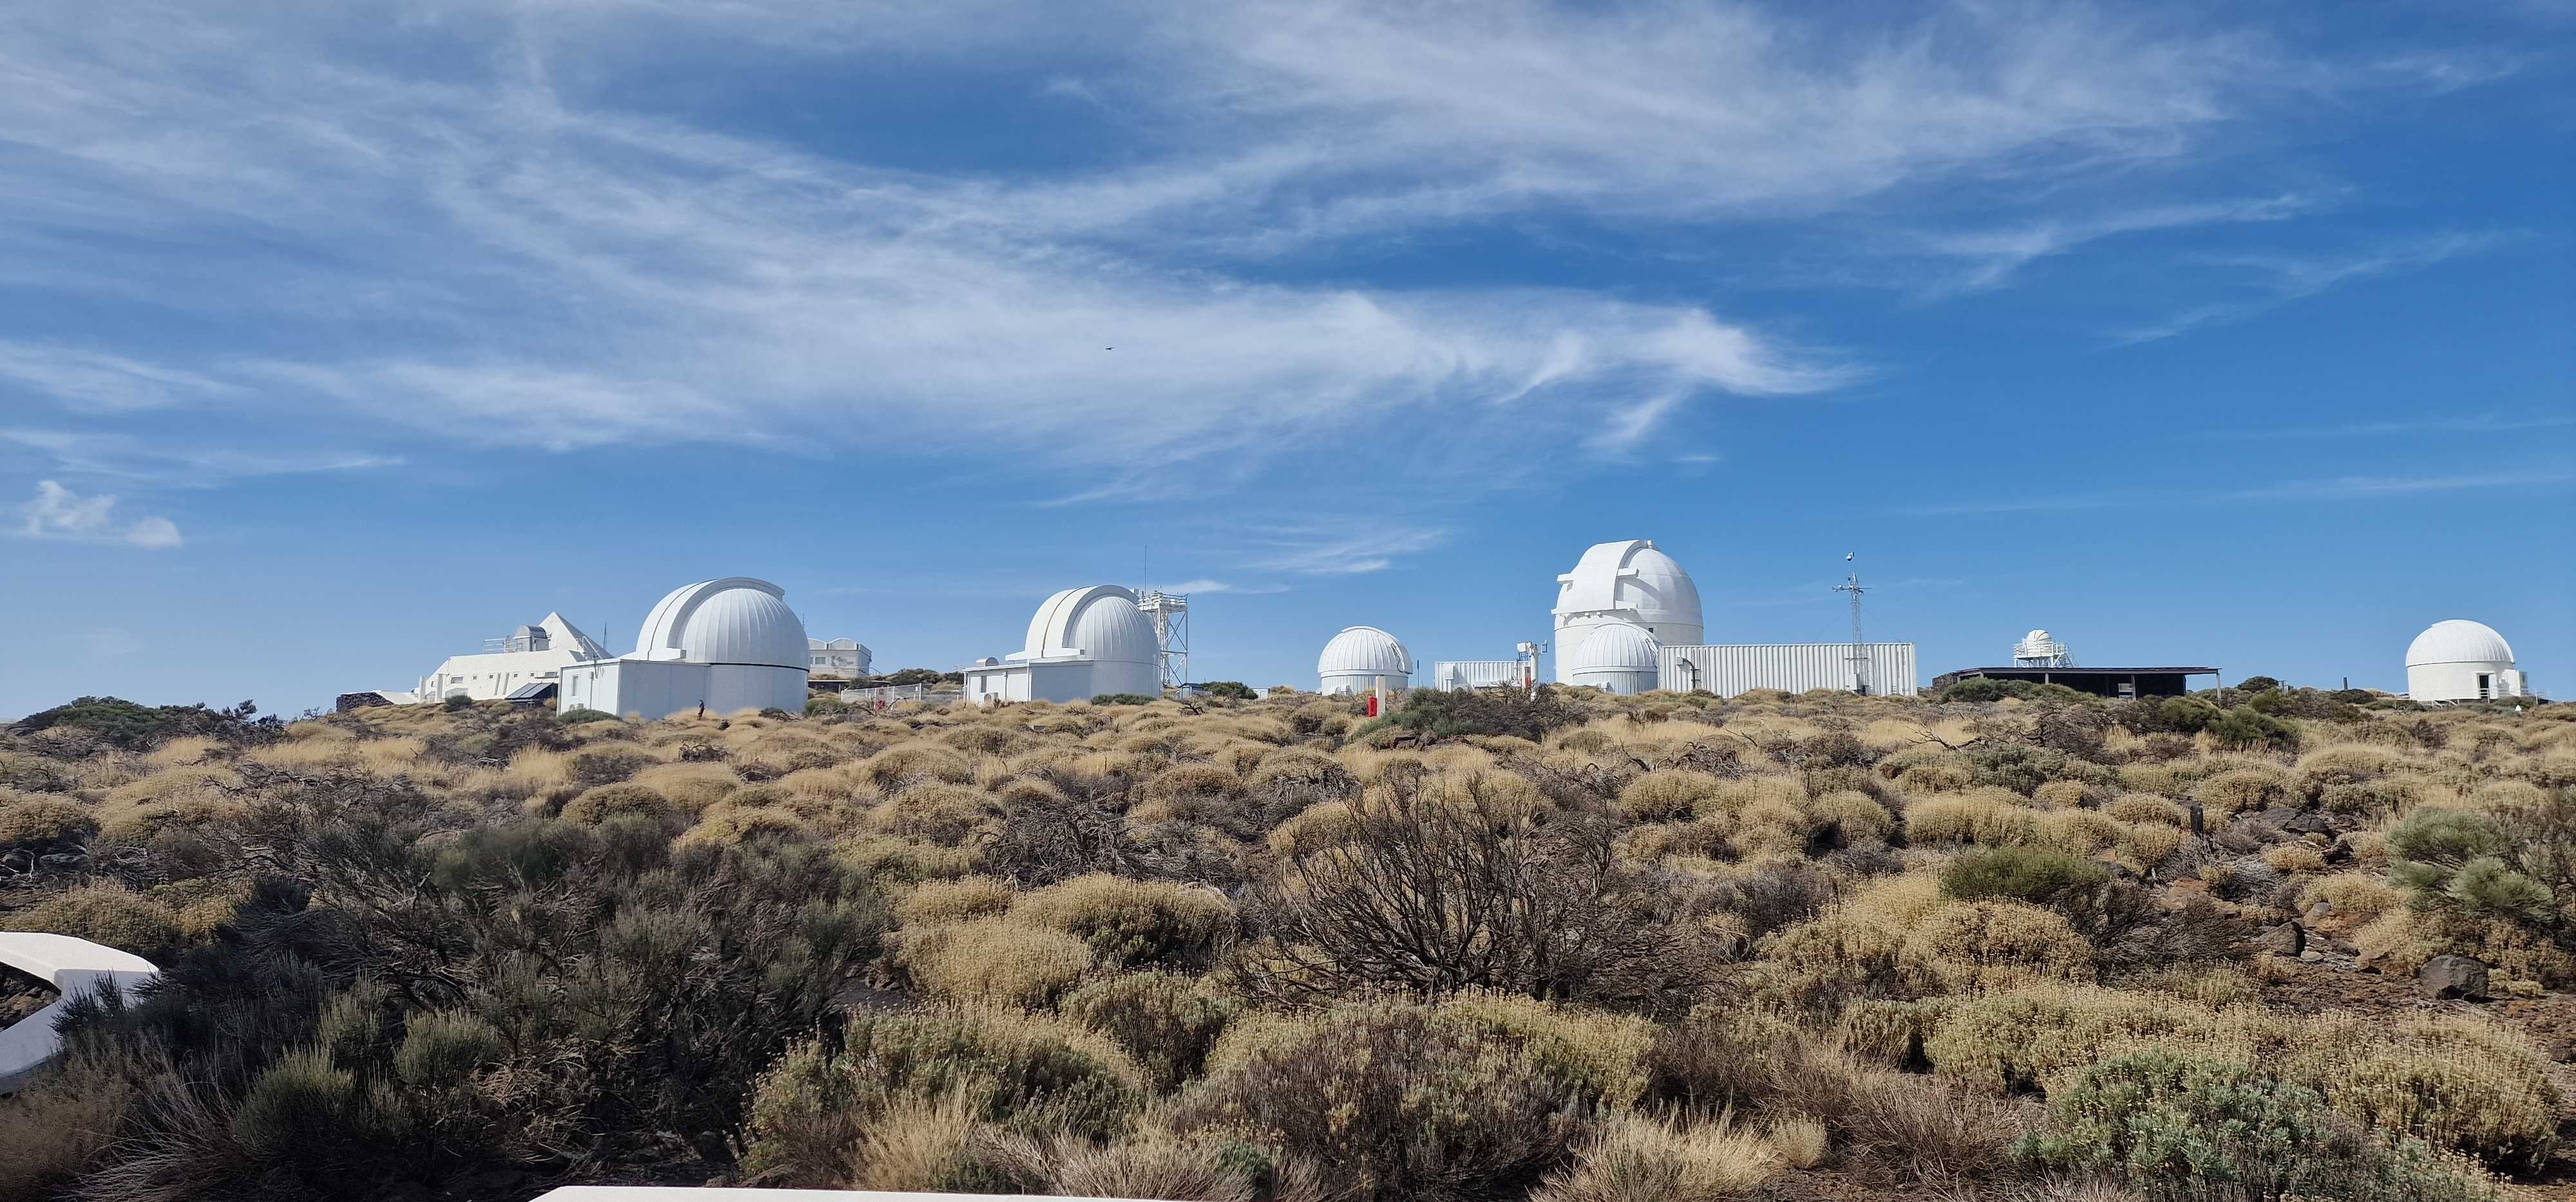
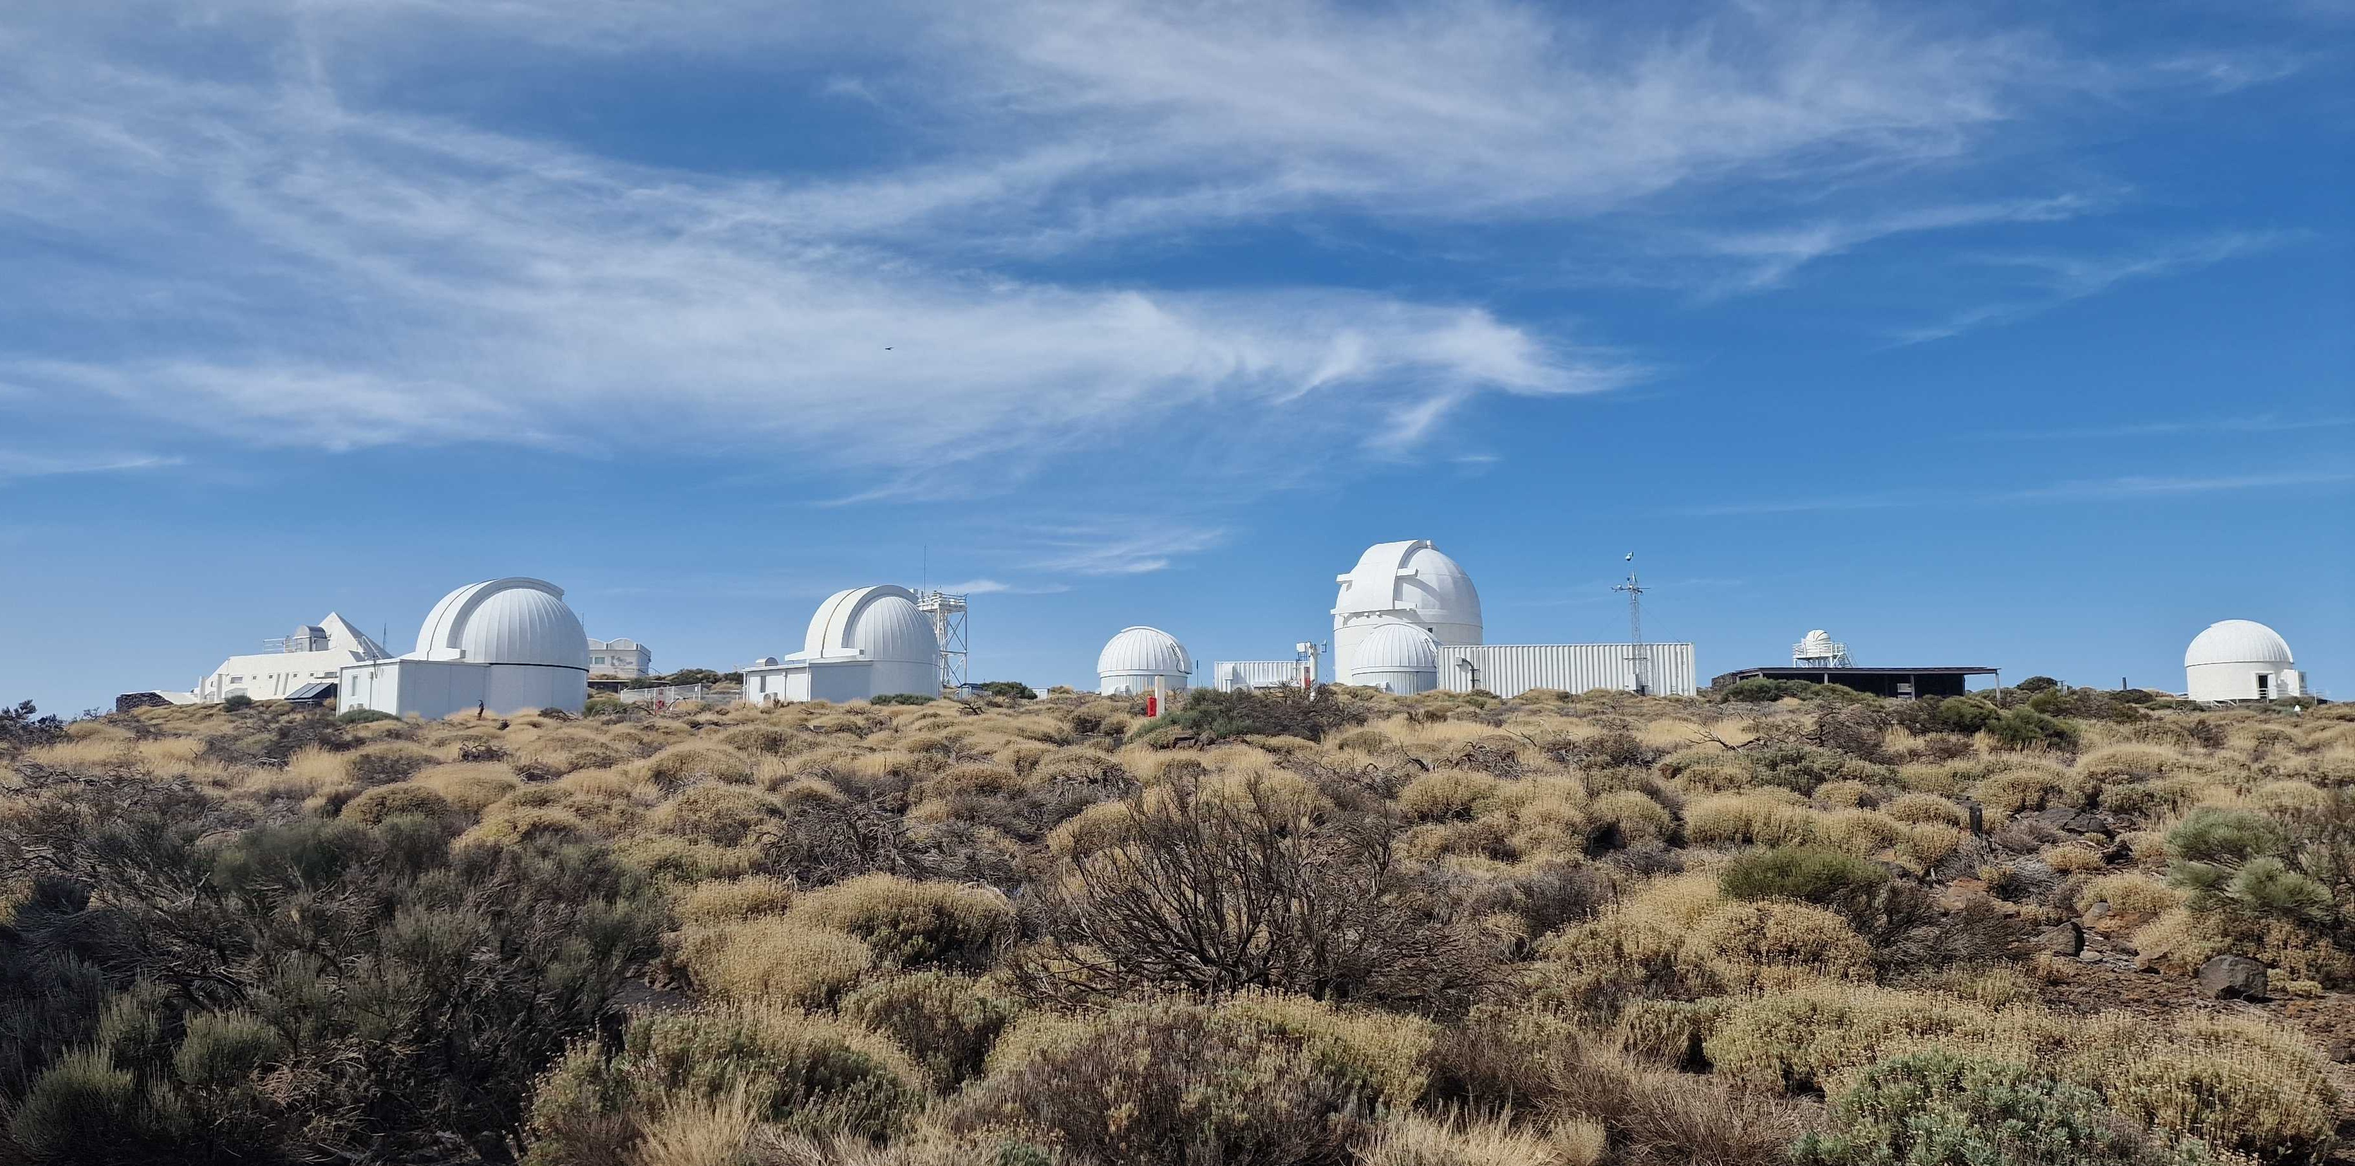
Add teisipäev

diff --git a/betadecay/tenerife_okt2026.md b/betadecay/tenerife_okt2026.md
@@ -379,14 +379,14 @@ Tuuri lõpupoole taheti meile väikestest teleskoobikestest päikeseplekke ja -l
 
 ## Esmaspäev: pilveteki all soojas
 
-Eile nägi taevas välja nagu kodus (päris kodus, mitte siinses kodus) - ühtlaselt helehall. Mägesid ega päikest ei olnud justkui olemaski. Ainult, et seejuures oli siin tuulevaikne ja 32 kraadi sooja. Kuna eelneval õhtul olime pilvedes ka kollast triipu märganud, hakkasime meteo-lehti mööda kolama ja saime selgeks, et nüüd on see siis käes - _calima_. See tähendab, et Saharast on kuum tuul kogu oma liivaga siiakanti tulnud. Detailsem kaart näitab, et siit ekvaatori poole ookeani peal on olukord muidugi hullem, aga ka meie kandis on väikesed hoiatused antud: ära tegele õues spordiga, kuivata pesu toas ning, kui oled astmaatik, siis kuula oma arsti. Astmaatik ma õnneks pole ning pesu ei õnnestunud ka eile asjaolude kokkusattumise tõttu pesta, aga väiksel kõrbe-rattasõidul käisin küll enne ära kui lugesin, et äkki ei olnud mõistlik. Nüüd ma saan vähemalt öelda, et sõit ei läinud vaevaliselt mitte sellepärast, et mina väsinud või nõrk oleksin, vaid loomulikult oli põhjuseks õhus lendlev tolm. 
+Eile nägi taevas välja nagu kodus (päris kodus, mitte siinses kodus) - ühtlaselt helehall. Mägesid ega päikest ei olnud justkui olemaski. Ainult, et seejuures oli siin tuulevaikne ja 32 kraadi sooja. Kuna eelneval õhtul olime pilvedes ka kollast triipu märganud, hakkasime meteo-lehti mööda kolama ja saime selgeks, et nüüd on see siis käes - _calima_. See tähendab, et Saharast on kuum tuul kogu oma liivaga siiakanti tulnud. Detailsem kaart näitab, et siit ekvaatori poole ookeani peal on olukord muidugi hullem, aga ka meie kandis on väikesed hoiatused antud: ära tegele õues spordiga, kuivata pesu toas ning, kui oled astmaatik, siis kuula oma arsti. Astmaatik ma õnneks pole ning pesu ei õnnestunud ka eile asjaolude kokkusattumise tõttu pesta, aga väiksel kõrbe-rattasõidul käisin küll enne ära kui lugesin, et äkki ei olnud mõistlik. Nüüd saan vähemalt öelda, et sõit ei läinud vaevaliselt mitte sellepärast, et mina väsinud või nõrk oleksin, vaid loomulikult oli põhjuseks õhus lendlev tolm. 
 
 ![](../img/ajutise_s6braga_6ues_m2ngimas.jpg)
 _Calima aegu õues mängimas_
 
 ## Teisipäev: segadus saarte arvuga
 
-Nagu ma juba kuskil eespool mainisin, siis ega ma enne siia tulekut Tenerife kohta liiga palju ei uurinud. Tuleb tunnistada, et olen ka Kanaaride kohta üldiselt võrdlemisi vähe uurinud. Siit-sealt, et kus milline loodus on (sellest meie paari aasta tagune käik must-valgele Lanzarotele) ja lootus _midagigi_ teada saada nende inimeste kohta, kes siin enne hispaanlasi elasid. 
+Nagu ma juba kuskil eespool mainisin, siis ega ma enne siia tulekut Tenerife kohta liiga palju ei lugenud. Tuleb tunnistada, et olen ka Kanaaride kohta üldiselt võrdlemisi vähe uurinud. Siit-sealt, et kus milline loodus on (sellest meie paari aasta tagune käik must-valgele Lanzarotele) ja lootus _midagigi_ teada saada nende inimeste kohta, kes siin enne hispaanlasi elasid. 
 
 Seda, et Kanaari saari on seitse, sain ma teada alles siis, kui peatänava äärset kunstiteost guugeldasin. See kandvat nime "Seitsme saare purskkaev" ning tähistavat seitset Kanaari saart.
 
